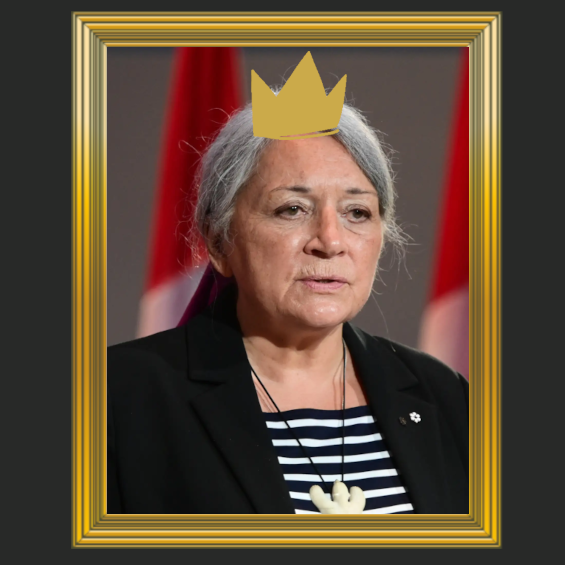
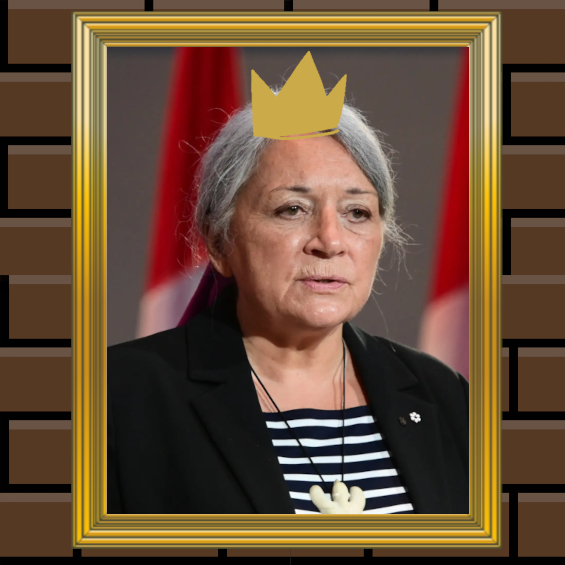
add mary simon

Changed region(s): [[0.0, 0.0, 1.0, 1.0]]

diff --git a/aventures2/level2.js b/aventures2/level2.js
@@ -84,6 +84,10 @@ tiles = [
             ]
 			
 change_tile = [ 
+				[1,5,"bricks.png"],
+				[1,8,"bricks.png"],
+				[2,5,"bricks.png"],
+				[2,8,"bricks.png"],
 
 
 				];
